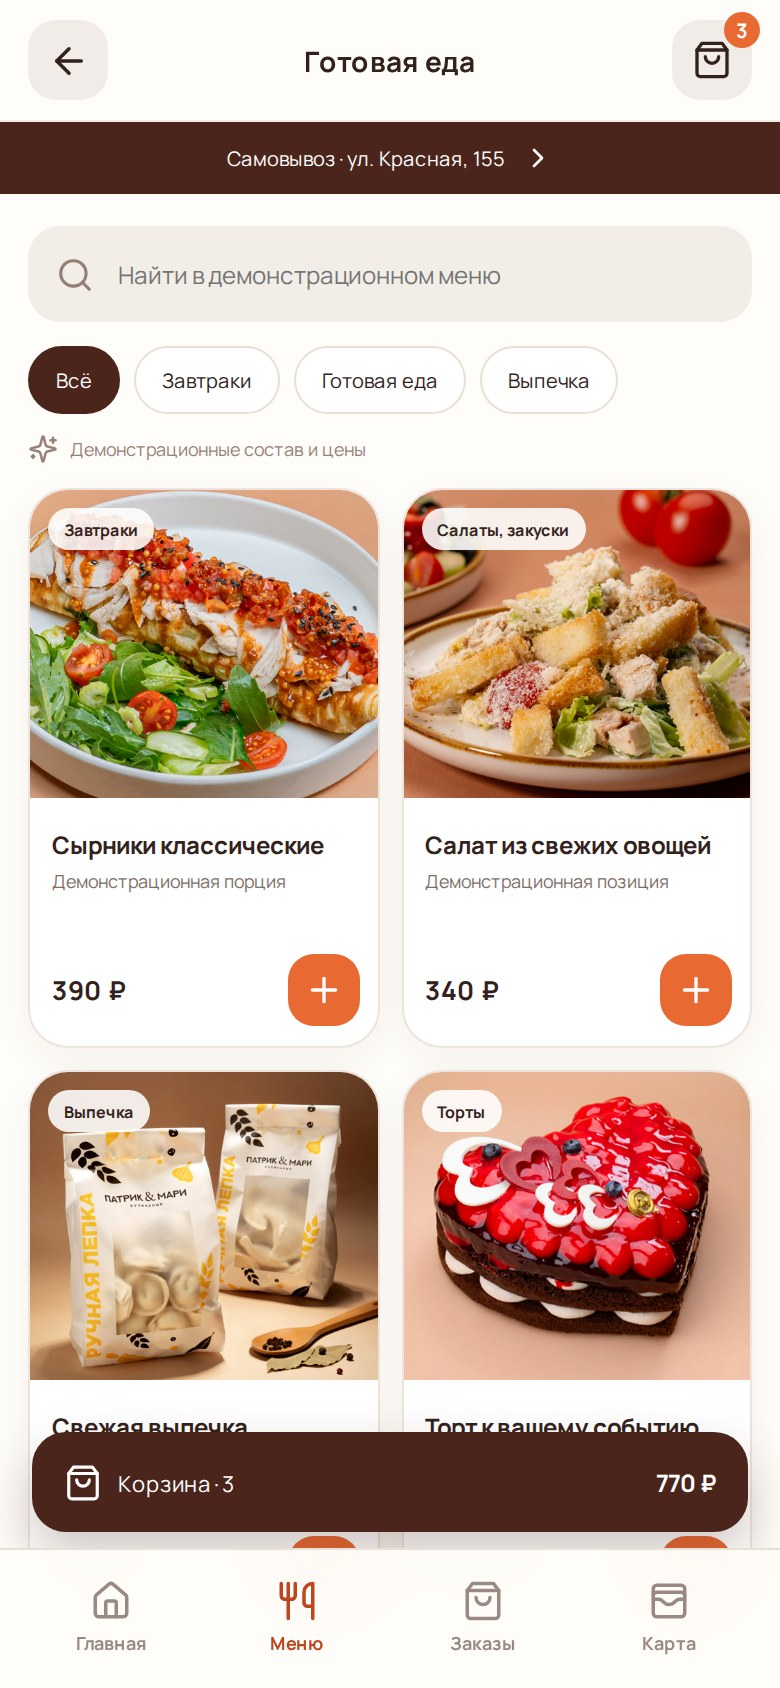
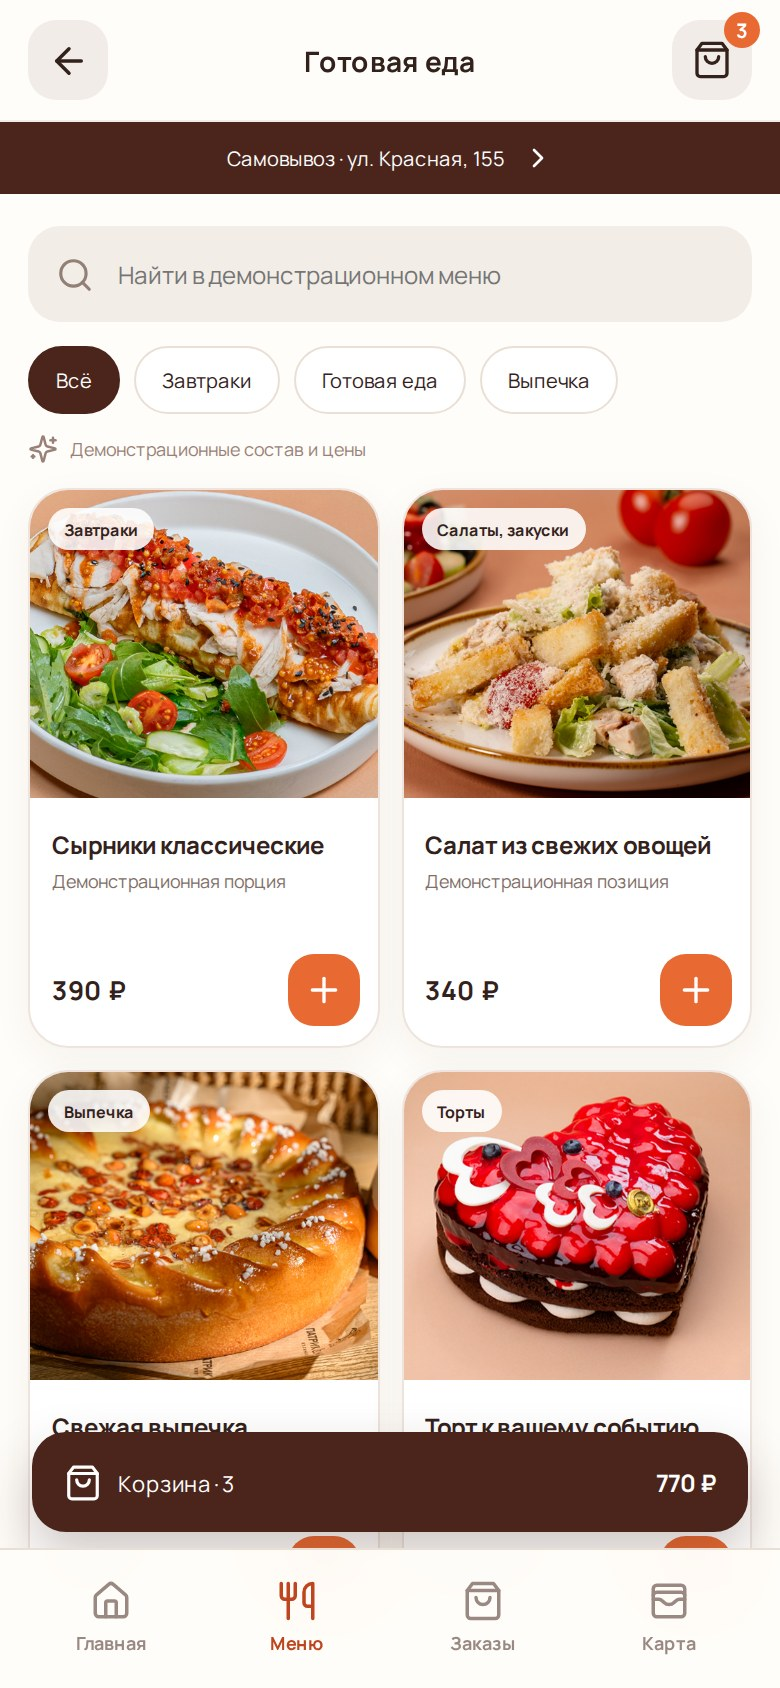
fix: align bakery visual with official source

Changed region(s): [[0.0308, 0.6161, 0.4923, 0.8318]]

diff --git a/SOURCES.md b/SOURCES.md
@@ -53,7 +53,7 @@
 - `breakfast.jpg` — категория «Завтраки», источник: `https://api.patrickmary.ru/api/file/Categories/76/c937a05b-fb66-11eb-813e-00155d02df13_0000000001.jpg`;
 - `salads.jpg` — категория «Салаты, закуски», источник: `https://api.patrickmary.ru/api/file/Categories/77/c51072c1-fb3f-11eb-813e-00155d02df13_0000000002.jpg`;
 - `cakes.jpg` — категория «Торты», источник: `https://api.patrickmary.ru/api/file/Categories/80/c51072c4-fb3f-11eb-813e-00155d02df13_0000000005.jpg`;
-- `bakery.jpg` — официальная категория меню, источник: `https://api.patrickmary.ru/api/file/Categories/84/c51072c9-fb3f-11eb-813e-00155d02df13_0000000010.jpg`.
+- `bakery.jpg` — категория «Выпечка», источник: `https://api.patrickmary.ru/api/file/Categories/81/c51072c6-fb3f-11eb-813e-00155d02df13_0000000007.jpg`.
 
 Снимки в `public/assets/case/` получены из работающей локальной production-сборки этого прототипа и не являются внешними материалами.
 
